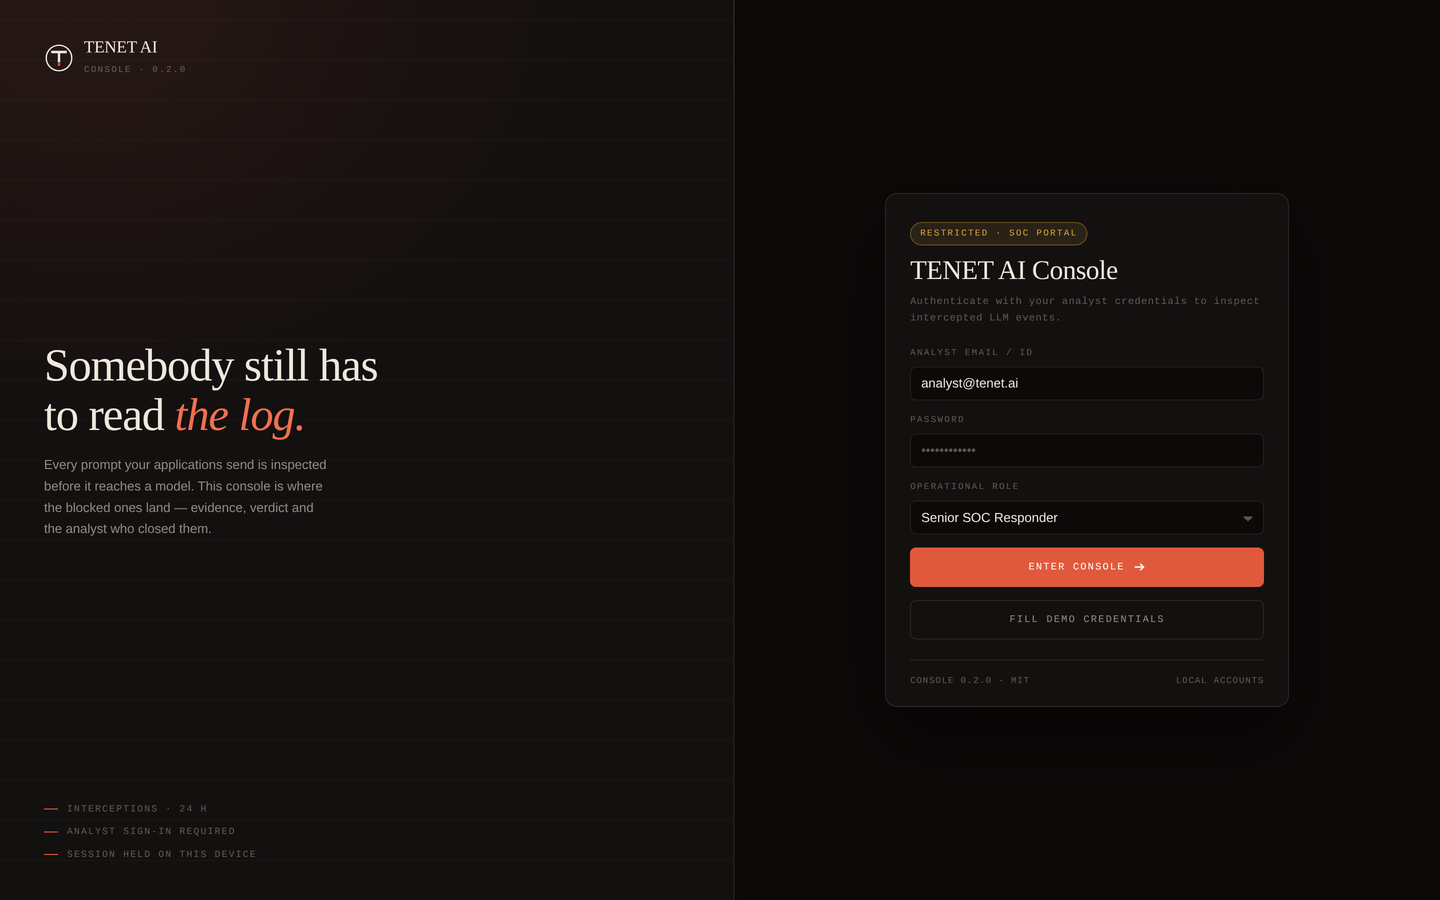
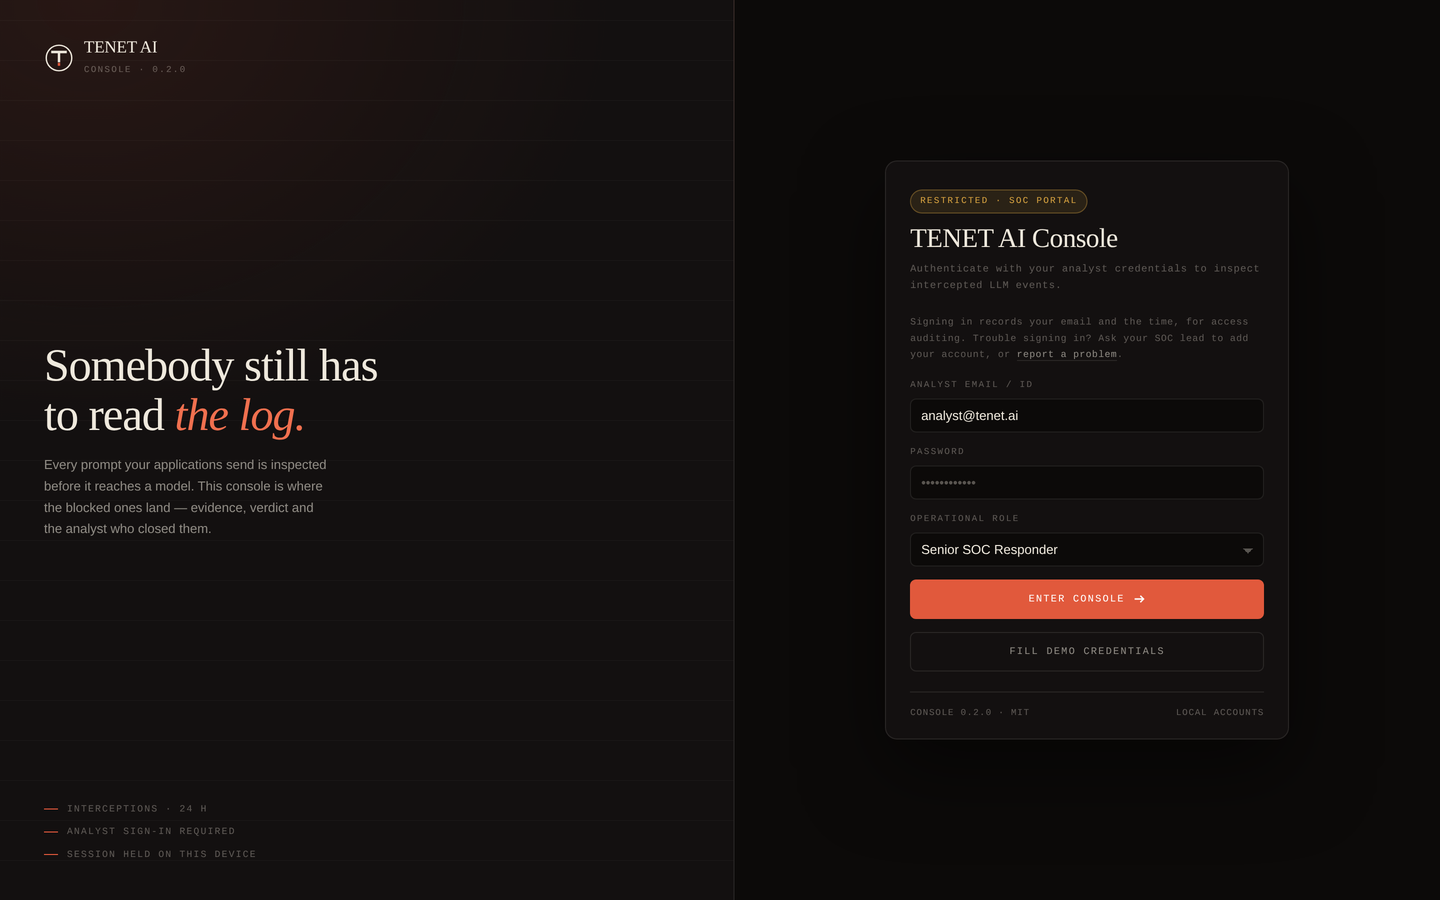
fix(auth): show the sign-in notice on password builds too
The privacy notice was inside the Google-only block, so a self-hosted build
without an OAuth client recorded sign-ins without saying so. It now sits outside
that block, with spacing that holds against the first field.

diff --git a/dashboard/src/components/LoginView.tsx b/dashboard/src/components/LoginView.tsx
@@ -148,23 +148,26 @@ export function LoginView({ onLoginSuccess }: LoginViewProps) {
           )}
 
           {googleEnabled && (
+            <GoogleSignIn
+              clientId={GOOGLE_CLIENT_ID}
+              onSignedIn={handleGoogle}
+              onError={handleGoogleError}
+              onUnavailable={handleGoogleUnavailable}
+            />
+          )}
+
+          {/* The notice sits outside the Google block: password sign-ins are logged too. */}
+          <p className="help">
+            Signing in records your email and the time, for access auditing. Trouble signing in? Ask
+            your SOC lead to add your account, or{' '}
+            <a href="https://github.com/TENET-DEV-AI/TENET-AI/issues" target="_blank" rel="noreferrer">
+              report a problem
+            </a>
+            .
+          </p>
+
+          {googleEnabled && (
             <>
-              <GoogleSignIn
-                clientId={GOOGLE_CLIENT_ID}
-                onSignedIn={handleGoogle}
-                onError={handleGoogleError}
-                onUnavailable={handleGoogleUnavailable}
-              />
-
-              <p className="help">
-                Signing in records your email and the time, for access auditing. Trouble signing in?
-                Ask your SOC lead to add your account, or{' '}
-                <a href="https://github.com/TENET-DEV-AI/TENET-AI/issues" target="_blank" rel="noreferrer">
-                  report a problem
-                </a>
-                .
-              </p>
-
               <div className="auth-divider" role="presentation">
                 <span>or</span>
               </div>

diff --git a/dashboard/src/styles/product.css b/dashboard/src/styles/product.css
@@ -66,7 +66,7 @@
 .auth .badge{display:inline-flex;align-items:center;gap:6px;font-family:var(--f-mono);font-size:9px;
   letter-spacing:.16em;text-transform:uppercase;color:var(--amber);border:1px solid rgba(217,164,65,.35);
   background:var(--amber-soft);border-radius:999px;padding:4px 9px}
-.auth .help{margin-top:14px;font-family:var(--f-mono);font-size:9.5px;letter-spacing:.06em;color:var(--faint);line-height:1.7}
+.auth .help{margin:14px 0 16px;font-family:var(--f-mono);font-size:9.5px;letter-spacing:.06em;color:var(--faint);line-height:1.7}
 .auth .help a{color:var(--dim);border-bottom:1px solid var(--line)}
 .auth .help a:hover{color:var(--paper);border-color:var(--ember)}
 .auth .disclosure{align-self:flex-start;font-family:var(--f-mono);font-size:9.5px;letter-spacing:.12em;
